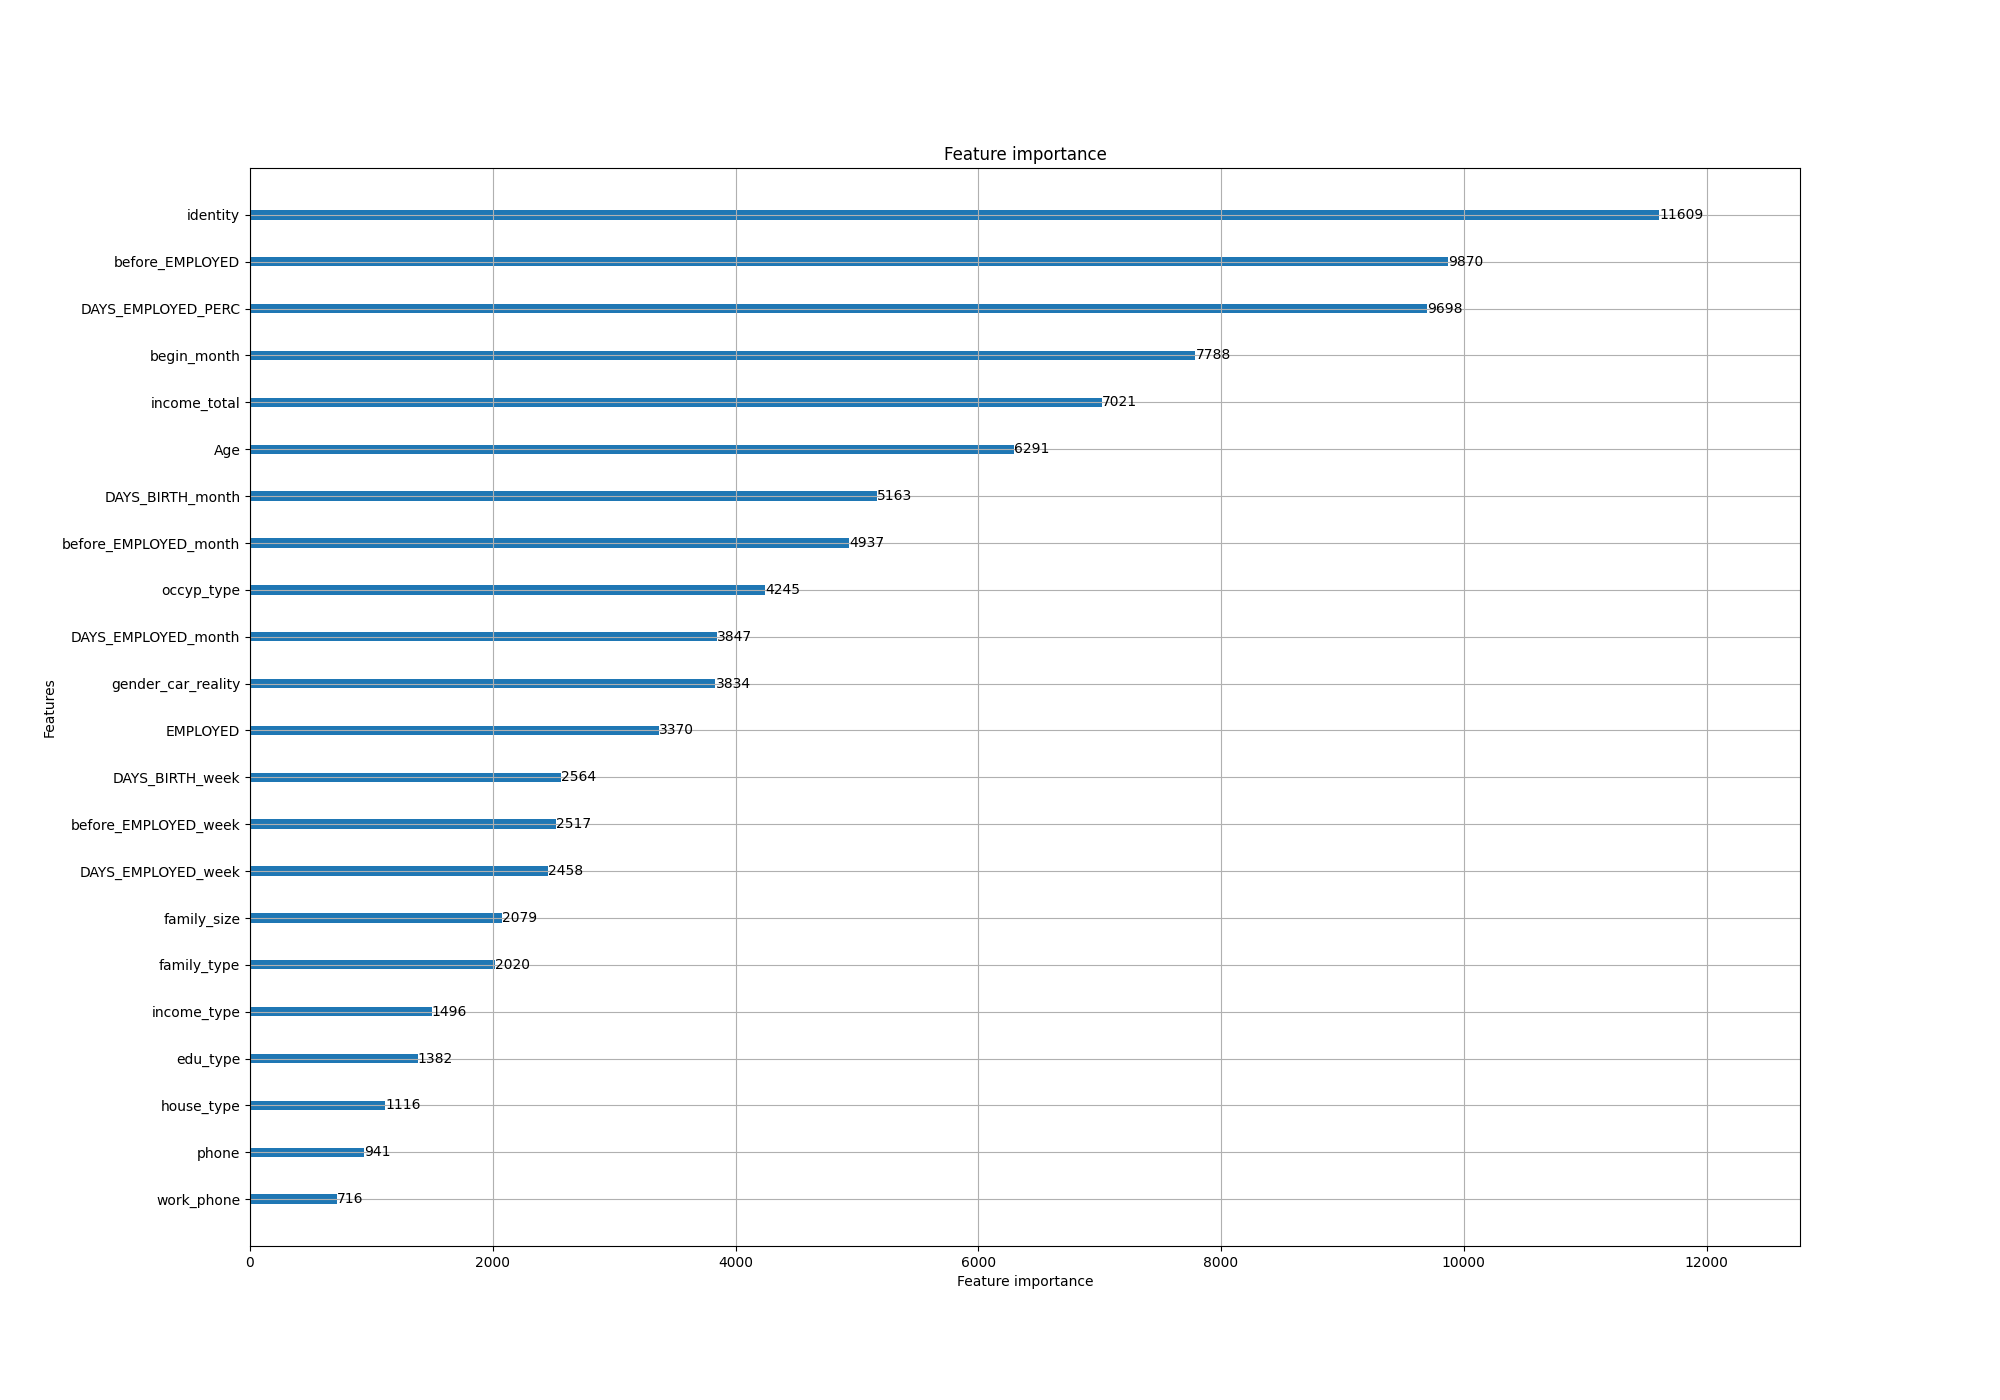
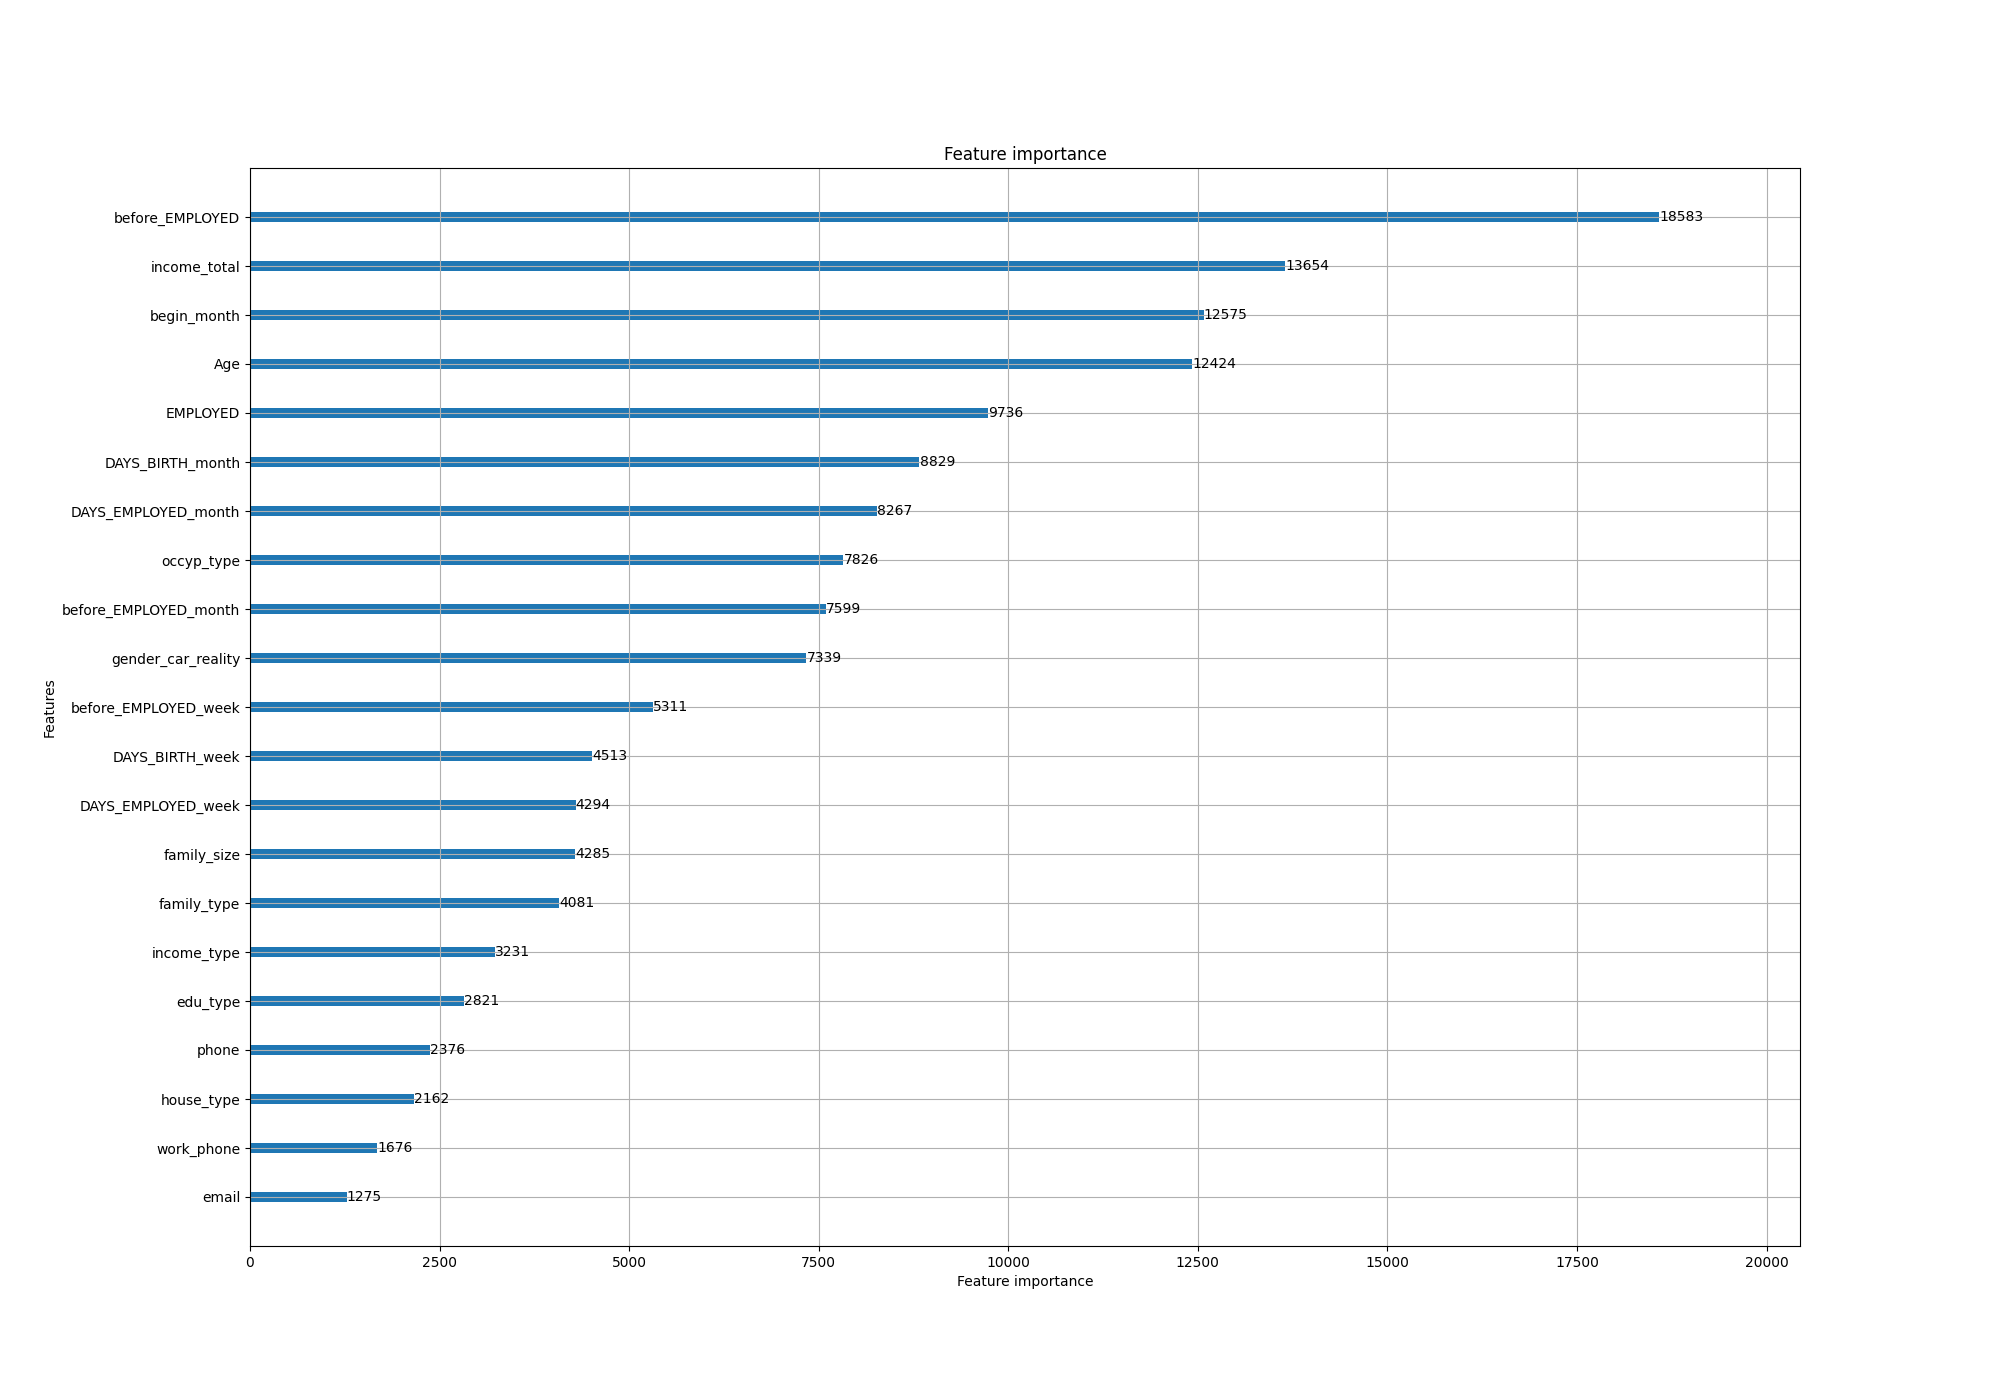
Update Code!

Changed region(s): [[0.031, 0.1536, 0.744, 0.86], [0.775, 0.1536, 0.806, 0.1843], [0.589, 0.8907, 0.62, 0.9214]]

diff --git a/src/PredictCreditCardDelinquency/data/dataset.py b/src/PredictCreditCardDelinquency/data/dataset.py
@@ -4,7 +4,6 @@ from typing import Tuple
 import numpy as np
 import pandas as pd
 from category_encoders.ordinal import OrdinalEncoder
-from category_encoders.target_encoder import TargetEncoder
 from sklearn.cluster import KMeans
 
 warnings.filterwarnings("ignore")
@@ -28,24 +27,26 @@ def load_dataset() -> Tuple[pd.DataFrame, pd.DataFrame]:
     test["DAYS_EMPLOYED"] = np.abs(test["DAYS_EMPLOYED"])
     train["DAYS_BIRTH"] = np.abs(train["DAYS_BIRTH"])
     test["DAYS_BIRTH"] = np.abs(test["DAYS_BIRTH"])
+    train["begin_month"] = np.abs(train["begin_month"]).astype(int)
+    test["begin_month"] = np.abs(test["begin_month"]).astype(int)
 
     # DAYS_BIRTH
     train["DAYS_BIRTH_month"] = np.floor(train["DAYS_BIRTH"] / 30) - (
         (np.floor(train["DAYS_BIRTH"] / 30) / 12).astype(int) * 12
     )
+    train["DAYS_BIRTH_month"] = train["DAYS_BIRTH_month"].astype(int)
     train["DAYS_BIRTH_week"] = np.floor(train["DAYS_BIRTH"] / 7) - (
         (np.floor(train["DAYS_BIRTH"] / 7) / 4).astype(int) * 4
     )
+    train["DAYS_BIRTH_week"] = train["DAYS_BIRTH_week"].astype(int)
     test["DAYS_BIRTH_month"] = np.floor(test["DAYS_BIRTH"] / 30) - (
         (np.floor(test["DAYS_BIRTH"] / 30) / 12).astype(int) * 12
     )
+    test["DAYS_BIRTH_month"] = test["DAYS_BIRTH_month"].astype(int)
     test["DAYS_BIRTH_week"] = np.floor(test["DAYS_BIRTH"] / 7) - (
         (np.floor(test["DAYS_BIRTH"] / 7) / 4).astype(int) * 4
     )
-
-    # percentage
-    train["DAYS_EMPLOYED_PERC"] = train["DAYS_EMPLOYED"] / train["DAYS_BIRTH"]
-    test["DAYS_EMPLOYED_PERC"] = test["DAYS_EMPLOYED"] / test["DAYS_BIRTH"]
+    test["DAYS_BIRTH_week"] = test["DAYS_BIRTH_week"].astype(int)
 
     # Age
     train["Age"] = np.abs(train["DAYS_BIRTH"]) // 365
@@ -55,15 +56,19 @@ def load_dataset() -> Tuple[pd.DataFrame, pd.DataFrame]:
     train["DAYS_EMPLOYED_month"] = np.floor(train["DAYS_EMPLOYED"] / 30) - (
         (np.floor(train["DAYS_EMPLOYED"] / 30) / 12).astype(int) * 12
     )
+    train["DAYS_EMPLOYED_month"] = train["DAYS_EMPLOYED_month"].astype(int)
     train["DAYS_EMPLOYED_week"] = np.floor(train["DAYS_EMPLOYED"] / 7) - (
         (np.floor(train["DAYS_EMPLOYED"] / 7) / 4).astype(int) * 4
     )
+    train["DAYS_EMPLOYED_week"] = train["DAYS_EMPLOYED_week"].astype(int)
     test["DAYS_EMPLOYED_month"] = np.floor(test["DAYS_EMPLOYED"] / 30) - (
         (np.floor(test["DAYS_EMPLOYED"] / 30) / 12).astype(int) * 12
     )
+    test["DAYS_EMPLOYED_month"] = test["DAYS_EMPLOYED_month"].astype(int)
     test["DAYS_EMPLOYED_week"] = np.floor(test["DAYS_EMPLOYED"] / 7) - (
         (np.floor(test["DAYS_EMPLOYED"] / 7) / 4).astype(int) * 4
     )
+    test["DAYS_EMPLOYED_week"] = test["DAYS_EMPLOYED_week"].astype(int)
 
     # EMPLOYED
     train["EMPLOYED"] = train["DAYS_EMPLOYED"] // 365
@@ -74,16 +79,20 @@ def load_dataset() -> Tuple[pd.DataFrame, pd.DataFrame]:
     train["before_EMPLOYED_month"] = np.floor(train["before_EMPLOYED"] / 30) - (
         (np.floor(train["before_EMPLOYED"] / 30) / 12).astype(int) * 12
     )
+    train["before_EMPLOYED_month"] = train["before_EMPLOYED_month"].astype(int)
     train["before_EMPLOYED_week"] = np.floor(train["before_EMPLOYED"] / 7) - (
         (np.floor(train["before_EMPLOYED"] / 7) / 4).astype(int) * 4
     )
+    train["before_EMPLOYED_week"] = train["before_EMPLOYED_week"].astype(int)
     test["before_EMPLOYED"] = test["DAYS_BIRTH"] - test["DAYS_EMPLOYED"]
     test["before_EMPLOYED_month"] = np.floor(test["before_EMPLOYED"] / 30) - (
         (np.floor(test["before_EMPLOYED"] / 30) / 12).astype(int) * 12
     )
+    test["before_EMPLOYED_month"] = test["before_EMPLOYED_month"].astype(int)
     test["before_EMPLOYED_week"] = np.floor(test["before_EMPLOYED"] / 7) - (
         (np.floor(test["before_EMPLOYED"] / 7) / 4).astype(int) * 4
     )
+    test["before_EMPLOYED_week"] = test["before_EMPLOYED_week"].astype(int)
 
     # gender_car_reality
     train["gender_car_reality"] = (
@@ -101,22 +110,6 @@ def load_dataset() -> Tuple[pd.DataFrame, pd.DataFrame]:
         + test["reality"].astype(str)
     )
 
-    # identity
-    train["identity"] = (
-        train["gender"].astype(str)
-        + train["income_total"].astype(str)
-        + train["income_type"].astype(str)
-        + train["DAYS_BIRTH"].astype(str)
-        + train["DAYS_EMPLOYED"].astype(str)
-    )
-    test["identity"] = (
-        test["gender"].astype(str)
-        + test["income_total"].astype(str)
-        + test["income_type"].astype(str)
-        + test["DAYS_BIRTH"].astype(str)
-        + test["DAYS_EMPLOYED"].astype(str)
-    )
-
     cat_cols = [
         "email",
         "gender",
@@ -128,20 +121,14 @@ def load_dataset() -> Tuple[pd.DataFrame, pd.DataFrame]:
         "house_type",
         "occyp_type",
         "gender_car_reality",
-        "identity",
     ]
 
     le_encoder = OrdinalEncoder(cat_cols)
     train[cat_cols] = le_encoder.fit_transform(train[cat_cols], train["credit"])
     test[cat_cols] = le_encoder.transform(test[cat_cols])
 
-    # kmeans_train = train.drop(["credit"], axis=1)
-    # kmeans = KMeans(n_clusters=35, random_state=42).fit(kmeans_train)
-    # train["kmeans_clusters"] = kmeans.predict(kmeans_train)
-    # test["kmeans_clusters"] = kmeans.predict(test)
-
     del_cols = [
-        "email",
+        # "email",
         "gender",
         "car",
         "reality",
@@ -149,8 +136,8 @@ def load_dataset() -> Tuple[pd.DataFrame, pd.DataFrame]:
         "DAYS_BIRTH",
         "DAYS_EMPLOYED",
     ]
-
     train.drop(train.loc[train["family_size"] > 7, "family_size"].index, inplace=True)
     train.drop(del_cols, axis=1, inplace=True)
     test.drop(del_cols, axis=1, inplace=True)
+
     return train, test

diff --git a/notebook/eda.py b/notebook/eda.py
@@ -22,7 +22,6 @@ test = pd.read_csv(path + "test.csv")
 test = test.drop(["index"], axis=1)
 test.fillna("NAN", inplace=True)
 
-# %%
 # absolute
 train["DAYS_EMPLOYED"] = train["DAYS_EMPLOYED"].map(lambda x: 0 if x > 0 else x)
 train["DAYS_EMPLOYED"] = np.abs(train["DAYS_EMPLOYED"])
@@ -146,8 +145,9 @@ test["kmeans_clusters"] = kmeans.predict(test)
 # %%
 from sklearn.decomposition import PCA
 from sklearn.preprocessing import StandardScaler
+
 scaler = StandardScaler()
-kmeans_train = scaler.fit_transform(kmeans_train)
+kmeans_train = scaler.fit_transform(train["begin_month"])
 
 pca = PCA(n_components=2)
 principal_comp = pca.fit_transform(kmeans_train)
@@ -178,4 +178,46 @@ train["DAYS_EMPLOYED_week"].head()
 fig, ax = plt.subplots(figsize=(18, 15))
 sns.heatmap(train.corr())
 plt.show()
+# %%
+train.groupby(["identity"])["credit"].agg("count")
+# %%
+print(train.groupby(["identity"]).agg("count").to_dict().get("income_total"))
+
+# %%
+sns.histplot(train["begin_month"])
+# %%
+from sklearn.preprocessing import StandardScaler
+
+scaler = StandardScaler()
+kmeans_train = scaler.fit_transform(-train["begin_month"].values.reshape(-1, 1))
+# %%
+sns.histplot(kmeans_train)
+# %%
+train["DAYS_BIRTH"] = np.abs(train["DAYS_BIRTH"])
+train["DAYS_BIRTH"]
+# %%
+sns.histplot(train["DAYS_BIRTH"])
+# %%
+sns.countplot(train["DAYS_BIRTH_week"])
+# %%
+sns.violinplot(train["before_EMPLOYED"])
+
+# %%
+sns.countplot(train["EMPLOYED"])
+# %%
+train.skew()
+# %%
+def elbow(data):
+    sse = []
+    for i in range(2, 50):
+        km = KMeans(n_clusters=i)
+        km.fit(data)
+        sse.append(km.inertia_)
+    plt.plot(range(2, 50), sse, marker="o")
+    plt.xlabel("클러스터 개수")
+    plt.ylabel("SSE")
+    plt.show()
+
+
+elbow(kmeans_train)
 # %%

diff --git a/src/PredictCreditCardDelinquency/model/gbdt.py b/src/PredictCreditCardDelinquency/model/gbdt.py
@@ -1,10 +1,10 @@
 from typing import Dict
 
+import lightgbm as lgbm
 import matplotlib.pyplot as plt
 import numpy as np
 import pandas as pd
 import xgboost as xgb
-import lightgbm as lgbm
 from catboost import CatBoostClassifier, Pool
 from lightgbm import LGBMClassifier
 from sklearn.metrics import log_loss
@@ -74,14 +74,7 @@ def stratified_kfold_cat(
     splits = folds.split(X, y)
     cat_oof = np.zeros((X.shape[0], 3))
     cat_preds = np.zeros((X_test.shape[0], 3))
-    cat_cols = [
-        "income_type",
-        "edu_type",
-        "family_type",
-        "house_type",
-        "occyp_type",
-        "gender_car_reality",
-    ]
+    cat_cols = [c for c in X.columns if X[c].dtypes == "int64"]
 
     for fold, (train_idx, valid_idx) in enumerate(splits):
         print(f"============ Fold {fold} ============\n")

diff --git a/src/PredictCreditCardDelinquency/inference.py b/src/PredictCreditCardDelinquency/inference.py
@@ -5,10 +5,10 @@ import pandas as pd
 if __name__ == "__main__":
     path = "../../input/predict-credit-card-delinquency/"
     parse = argparse.ArgumentParser("Ensemble")
-    parse.add_argument("--w1", type=float, default=0.5)
+    parse.add_argument("--w1", type=float, default=0.55)
     parse.add_argument("--w2", type=float, default=0.2)
     parse.add_argument("--w3", type=float, default=0.05)
-    parse.add_argument("--w4", type=float, default=0.4)
+    parse.add_argument("--w4", type=float, default=0.2)
     parse.add_argument("--file", type=str, default="ensemble_model.csv")
     args = parse.parse_args()
 

diff --git a/src/PredictCreditCardDelinquency/cat_train.py b/src/PredictCreditCardDelinquency/cat_train.py
@@ -34,14 +34,7 @@ if __name__ == "__main__":
         "od_type": "Iter",
         "od_wait": 500,
         "n_estimators": 10000,
-        "cat_features": [
-            "income_type",
-            "edu_type",
-            "family_type",
-            "house_type",
-            "occyp_type",
-            "gender_car_reality",
-        ],
+        "cat_features": [c for c in X.columns if X[c].dtypes == "int64"]
     }
 
     cat_preds = stratified_kfold_cat(cat_params, args.fold, X, y, X_test)

diff --git a/src/PredictCreditCardDelinquency/lgbm_train.py b/src/PredictCreditCardDelinquency/lgbm_train.py
@@ -21,7 +21,7 @@ if __name__ == "__main__":
     parse.add_argument("--fold", type=int, default=10)
     args = parse.parse_args()
 
-    lgb_params = pd.read_pickle("../../parameters/best_feg_lgbm_params.pkl")
+    lgb_params = pd.read_pickle("../../parameters/best_lgbm_params.pkl")
     lgb_preds = stratified_kfold_lgbm(lgb_params, args.fold, X, y, X_test)
 
     submission = pd.read_csv(path + "sample_submission.csv")
